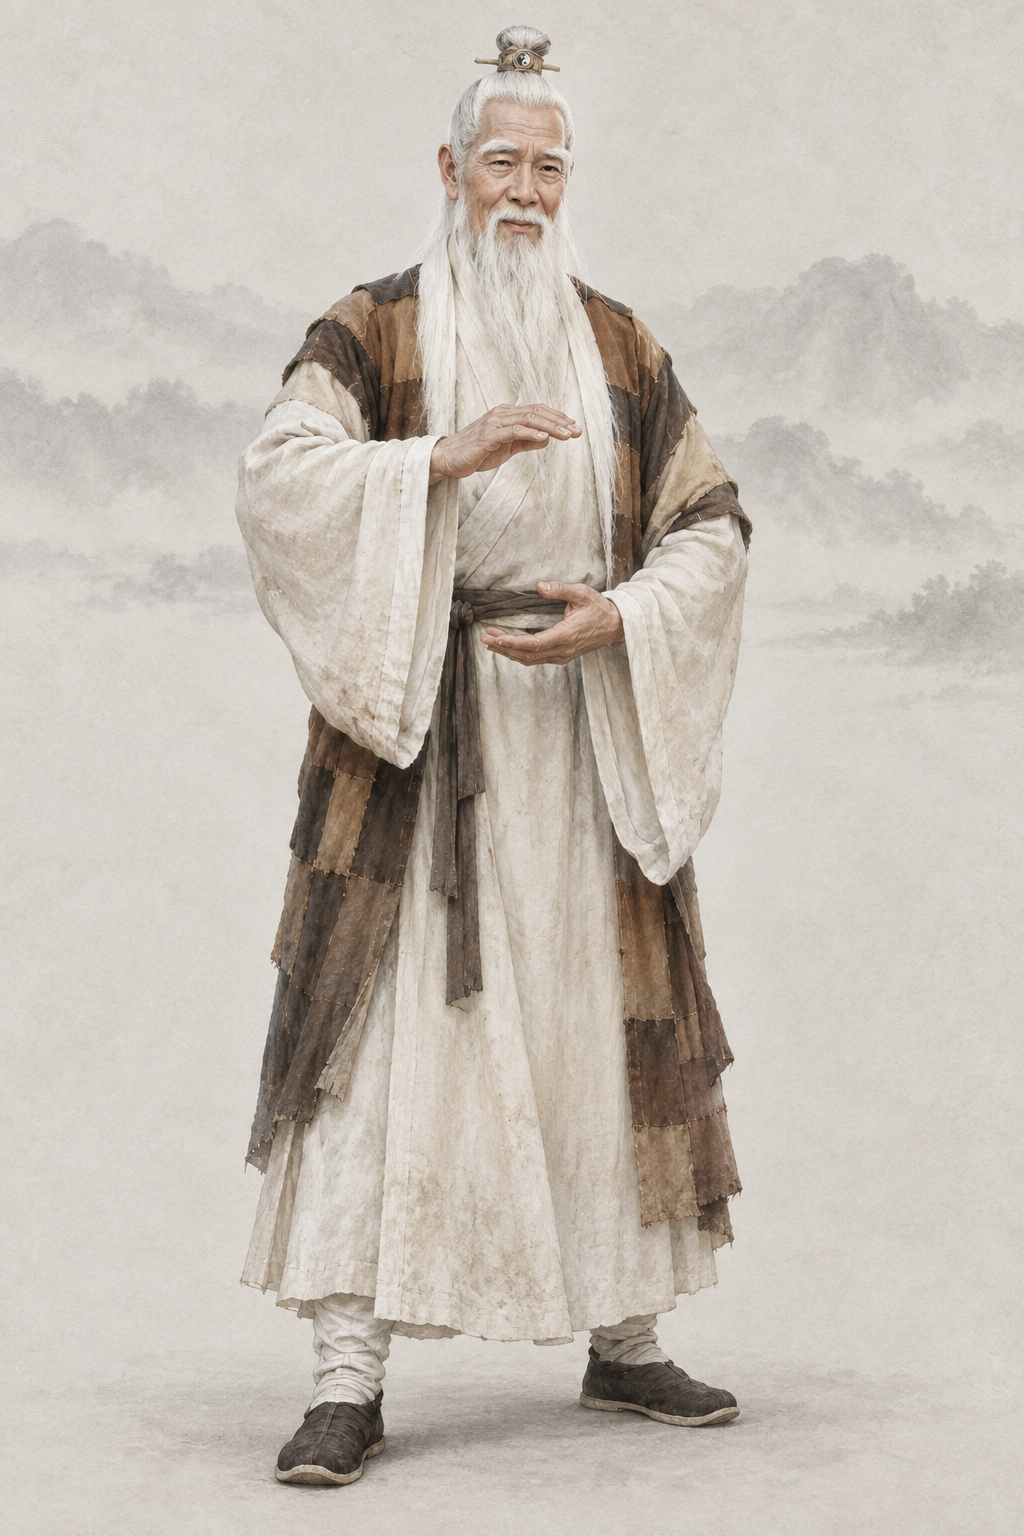
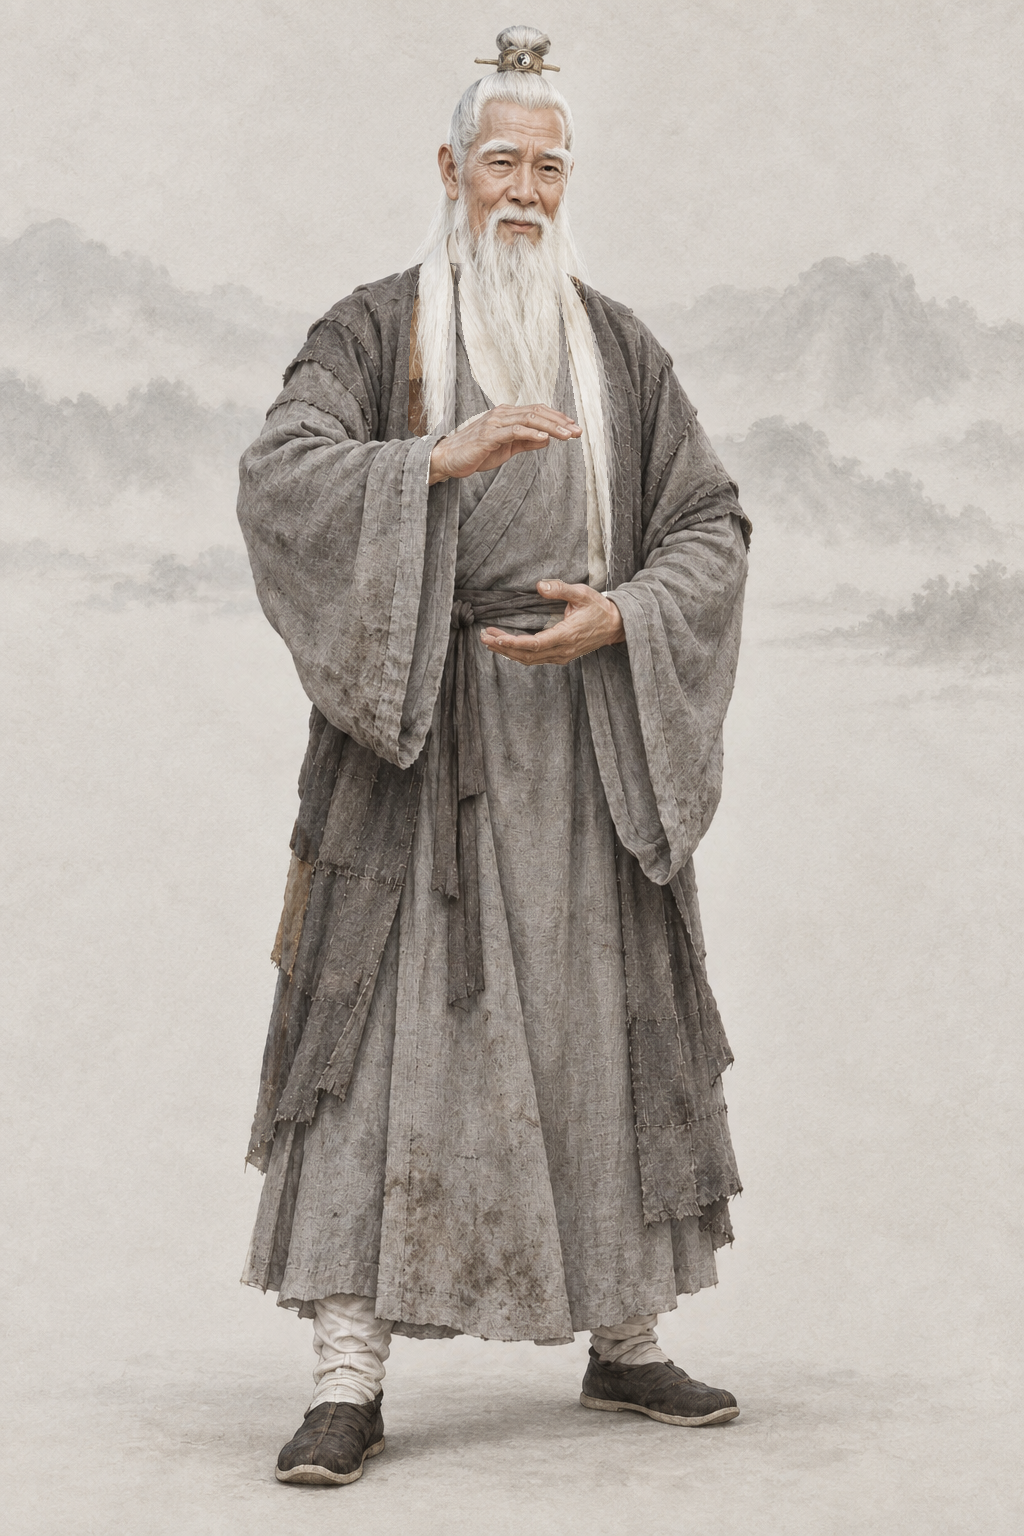
assets: AR-82 原著核对返修 张三丰太极主体改污秽灰布道袍
原著摘句已同步提示词；已打开验图；蒙版外0像素变化。

Executed-By: Codex gpt-6.1-sol（AR-82）

Changed region(s): [[0.2188, 0.1875, 0.75, 0.875]]

diff --git a/assets/default/prompts/characters/ch04-yitian/npc_zhangsanfeng.md b/assets/default/prompts/characters/ch04-yitian/npc_zhangsanfeng.md
@@ -150,3 +150,8 @@ FINAL POSE CHECK: FRONT-FACING ZHANG SANFENG. Forehead–nose–chin centreline 
 - 采用作者授权宽松自查；偏差如实记录，candidate不代表approved。
 - 源PNG通常为1024×1536 RGB；其他原生2:3尺寸如实登记，原字节保存，不裁切、重编码、放大或去除溯源。
 - 完整请求、实际参考哈希及旧版本备份见 `.agents/coord/portrait-generation/identity-20261001/por_npc_zhangsanfeng__ch04_elder_taiji_base.prepared.json`。
+
+## 原著依据
+
+- 《倚天屠龙记》二十四 太极初传柔克刚：“身穿一袭污秽的灰布道袍，须眉如银”；https://www.xuges.com/wuxia/jinyong/yttlj/176.htm
+- AR-82 返修约束（本节优先于历史提示词）：仅改衣服：主体为污秽灰布道袍，原白色主袍及大面积褐黄披衣统一成灰布道袍，保持原右衽款式和布褶，可有少量旧污迹；银白须眉、脸、手、发式、身材、鞋、背景原样不动。
